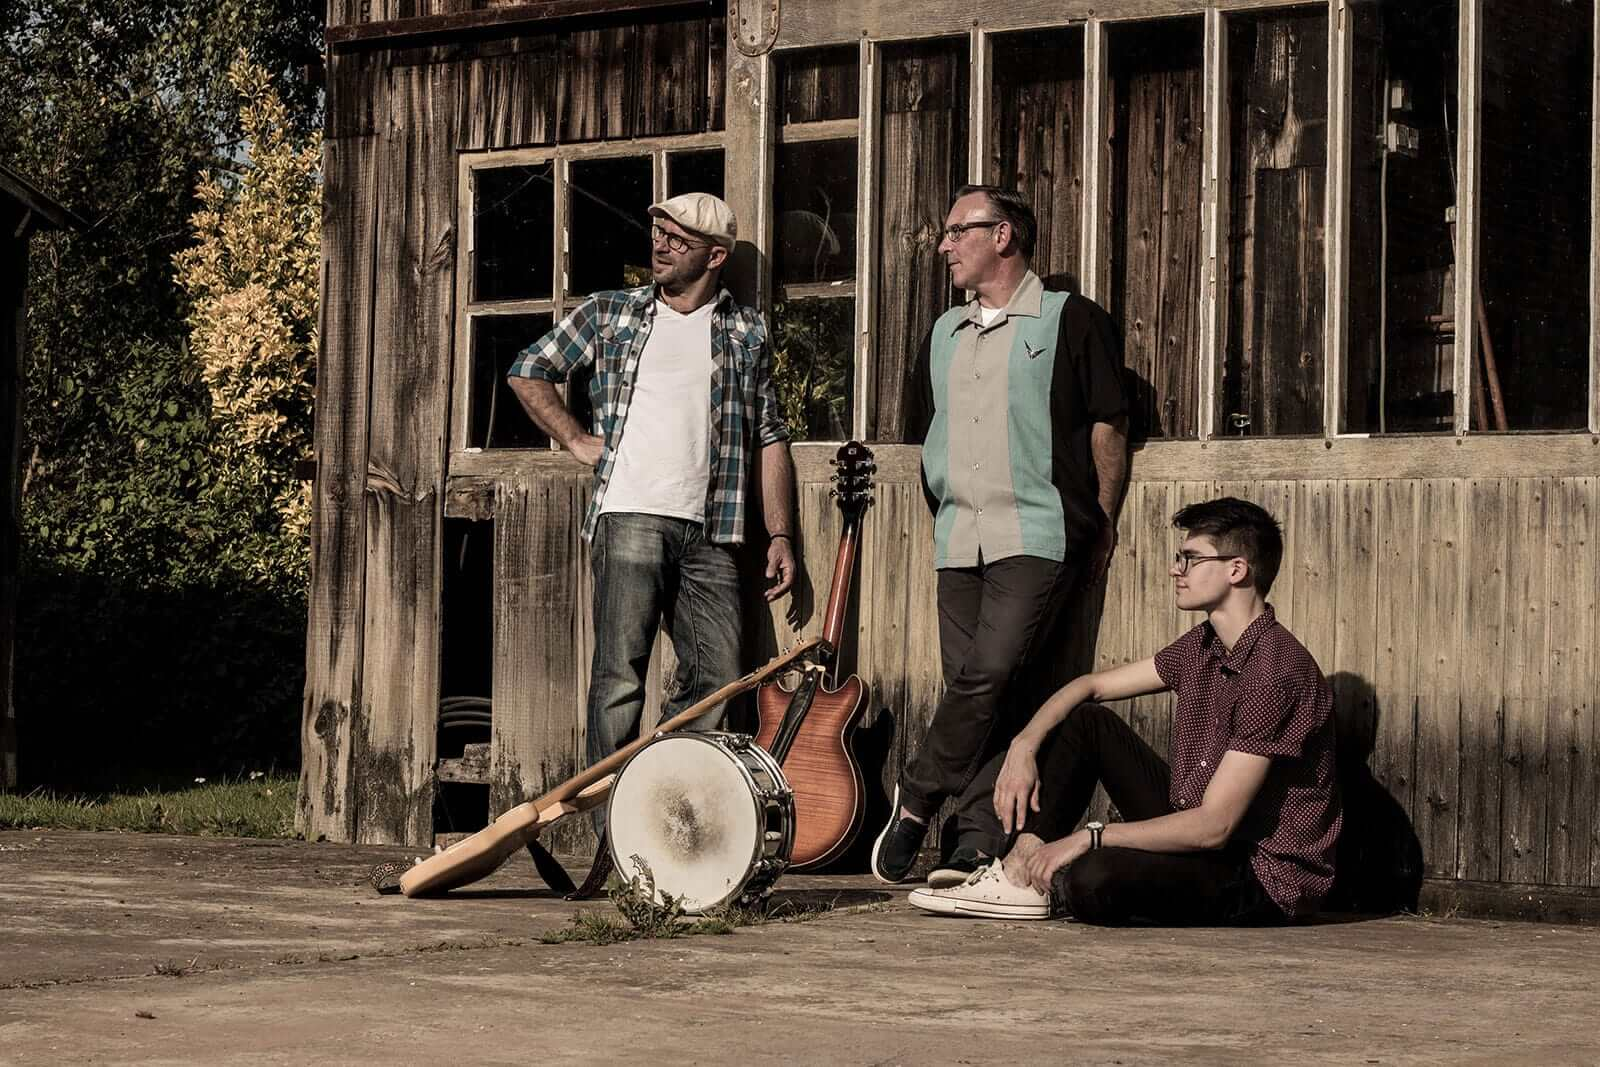
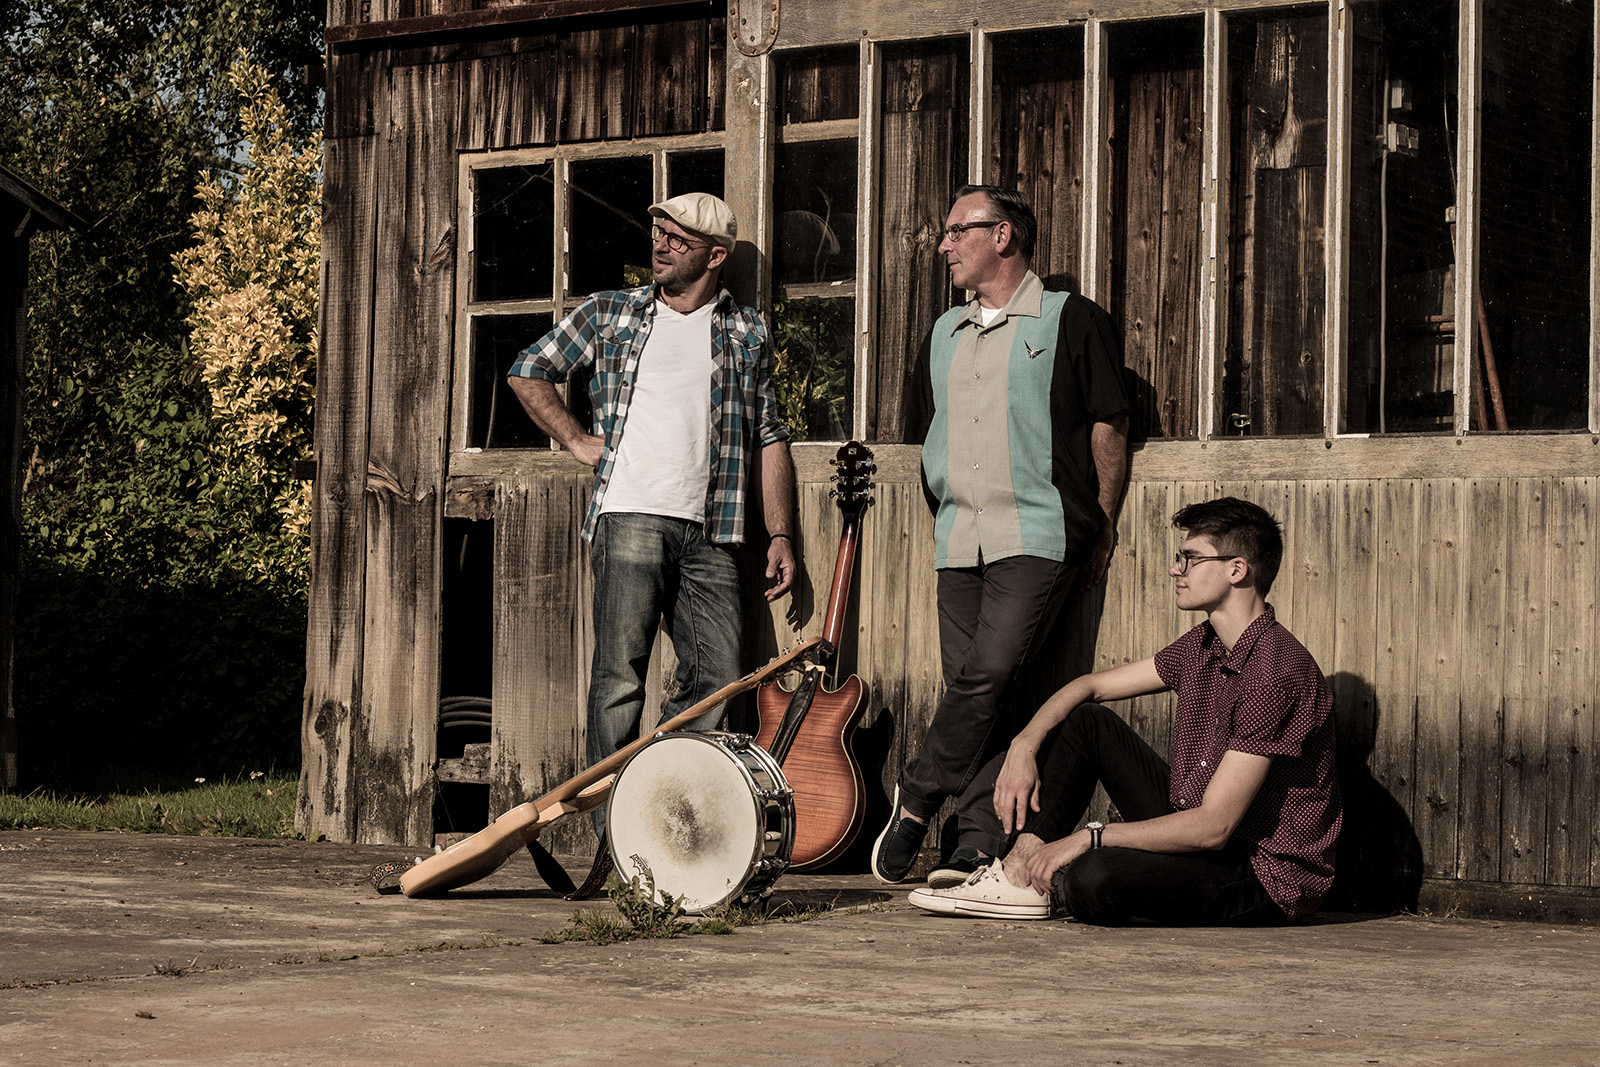
Optimizing images with gulp build task
Uses imagemin and several plugins

diff --git a/gulpfile.js b/gulpfile.js
@@ -17,8 +17,11 @@ var gulp = require('gulp'),
   browserify = require('gulp-browserify'),
   markdown = require('gulp-marked-json'),
   concat = require('gulp-concat'),
-  imagemin = require('imagemin'),
-  imageminJpegRecompress = require('imagemin-jpeg-recompress');
+  imagemin = require('gulp-imagemin'),
+  imageminJpegRecompress = require('imagemin-jpeg-recompress'),
+  imageminGifsicle = require('imagemin-gifsicle'),
+  imageminOptipng = require('imagemin-optipng'),
+  imageminSvgo = require('imagemin-svgo');
 // ////////////////////////////////////////////////
 // Preventing Gulp from breaking on error
 // // /////////////////////////////////////////////
@@ -144,16 +147,18 @@ gulp.task('build', function() {
     .pipe(minifyHTML())
     .pipe(gulp.dest('build'));
   gulp.src('src/img/*')
-    .pipe(imagemin({
-      svgoPlugins: [{
-        removeViewBox: false
-      }],
-      use: [pngquant(), jpegtran(), optipng(), gifsicle(), imageminJpegRecompress({
-        accurate: true,
-        target: 0.6,
+    .pipe(imagemin([
+        imageminGifsicle({
+        interlaced: true,
+        optimizationLevel: 3
+      }),
+        imageminJpegRecompress({
+        max: 50,
         progressive: true
-      })]
-    }))
+      }),
+        imageminOptipng(),
+        imageminSvgo()
+    ]))
     .pipe(gulp.dest('build/img'));
 });
 // ////////////////////////////////////////////////
